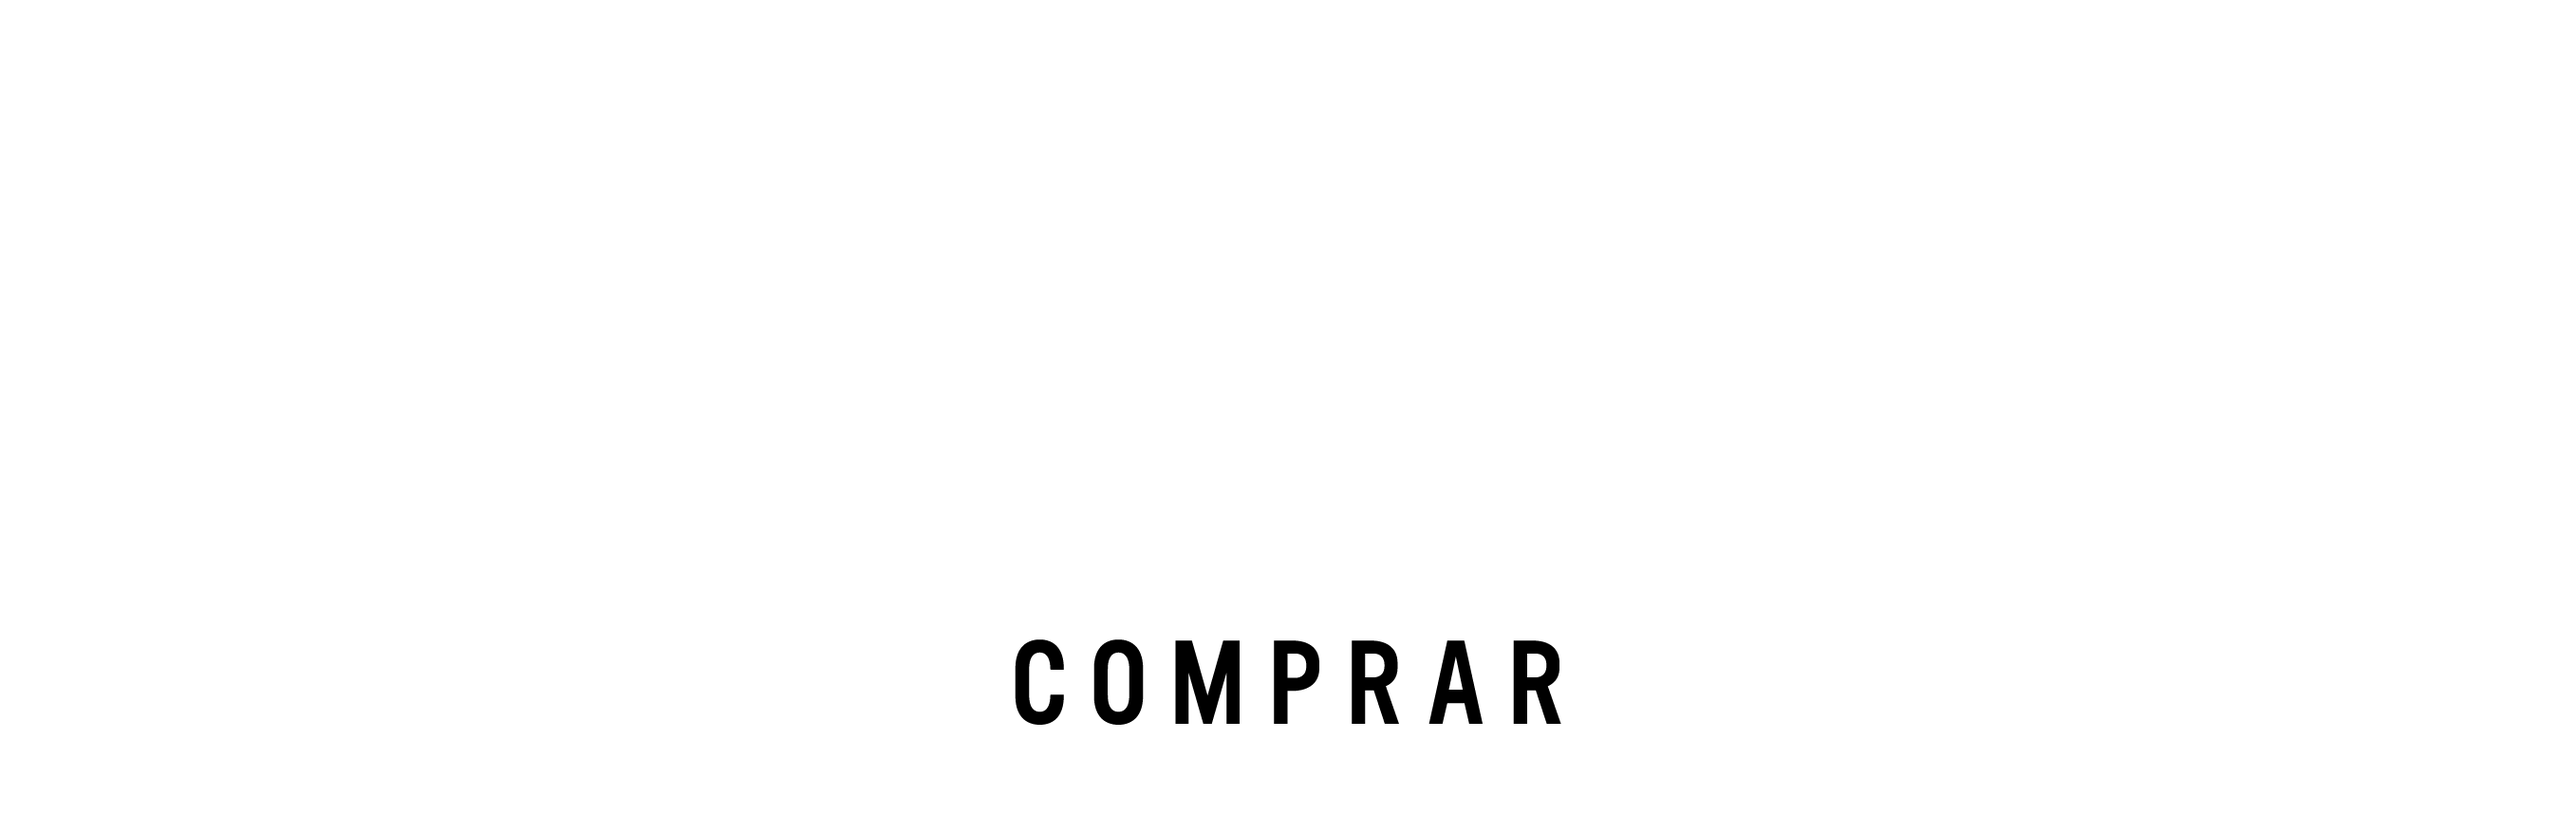
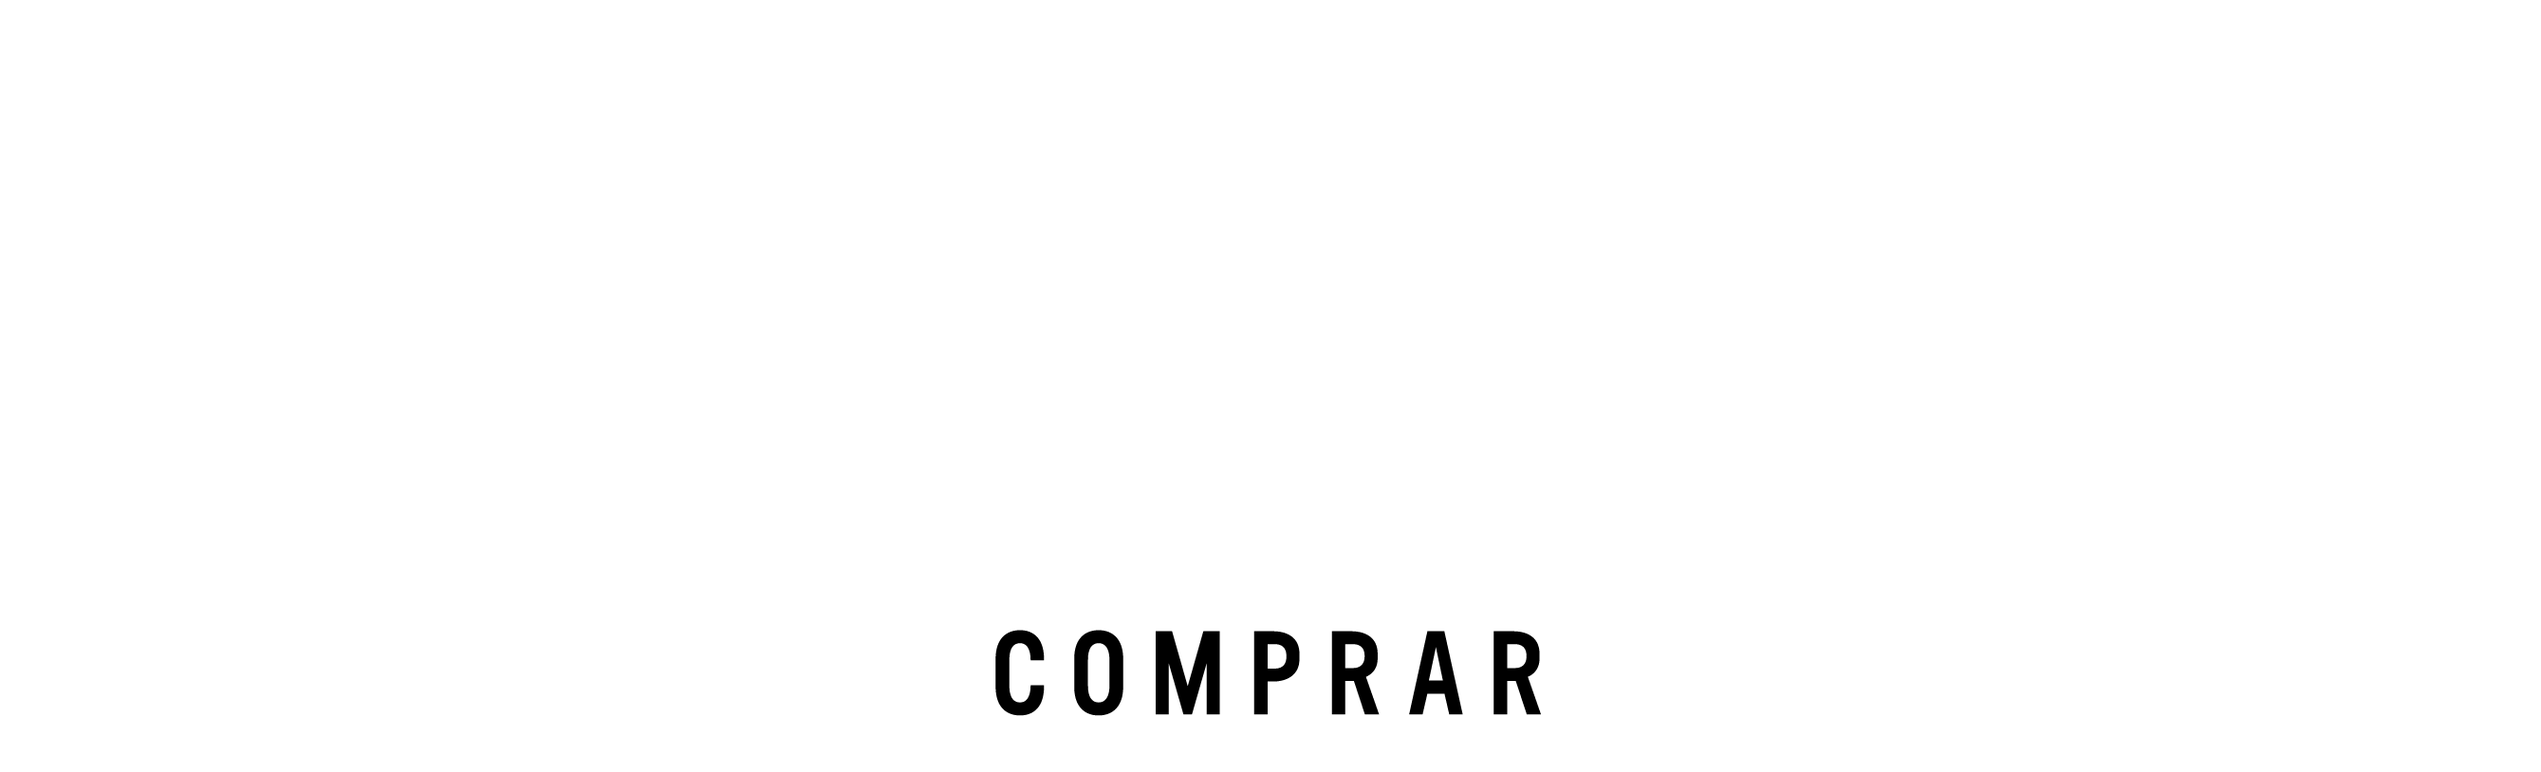
New style changes.

Changed region(s): [[0.3719, 0.7678, 0.6199, 0.9214]]

diff --git a/css/creative.min.css b/css/creative.min.css
@@ -11,6 +11,20 @@
  * Licensed under MIT (https://github.com/twbs/bootstrap/blob/master/LICENSE)
  */
 
+ @font-face {
+    font-family: 'Neusa-Regular';
+    src: url('../Neusa/Neusa-Regular.otf');
+    font-weight: normal;
+    font-style: normal;
+}
+
+@font-face {
+    font-family: 'Neusa-Bold';
+    src: url('../Neusa/Neusa-Bold.otf');
+    font-weight: bold;
+    font-style: normal;
+}
+
 :root {
     --blue: #007bff;
     --indigo: #6610f2;
@@ -4172,7 +4186,7 @@ input[type=button].btn-block, input[type=reset].btn-block, input[type=submit].bt
 }
 
 .navbar {
-    height: 60px;
+    height: 80px;
     position: relative;
     display: -webkit-box;
     display: -ms-flexbox;
@@ -9933,10 +9947,10 @@ hr.light {
 }
 
 #mainNav .navbar-brand {
-    font-family: "Merriweather Sans", -apple-system, BlinkMacSystemFont, "Segoe UI", Roboto, "Helvetica Neue", Arial, "Noto Sans", sans-serif, "Apple Color Emoji", "Segoe UI Emoji", "Segoe UI Symbol", "Noto Color Emoji";
+    font-family: 'Neusa-Bold';
     font-size: 30px;
     color: #fff;
-    letter-spacing: 5px;
+    letter-spacing: 8px;
 }
 
 #mainNav .navbar-nav .nav-item .nav-link {
@@ -10084,4 +10098,6 @@ header.masthead h1 {
 footer {
     background-color: #000;
     color: #fff;
+    font-family: 'Neusa-Regular';
+    font-size: 20px;
 }

diff --git a/index.html b/index.html
@@ -97,7 +97,7 @@
             </div>
 
             <div class="md-form mb-4">
-              <input type="email" id="form2" id="apellido" class="form-control validate">
+              <input type="text" id="form2" id="apellido" class="form-control validate">
               <label data-error="wrong" data-success="right" for="form2">Apellido:</label>
             </div>
           </div>

diff --git a/getCode.php b/getCode.php
@@ -17,7 +17,7 @@
 		if ($result = mysqli_query($con,"SELECT * FROM ilfokincircus WHERE nombre = '$nombre' AND apellido='$apellido'")){
             		$row_cnt = mysqli_num_rows($result);
             		if ($row_cnt==1){
-            			$_SESSION['username'] = $username;
+            			// $_SESSION['username'] = $username;
                         header("Location: success.html");
 	                }
                     else {
